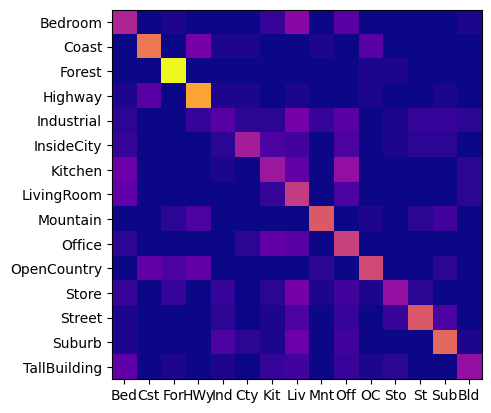
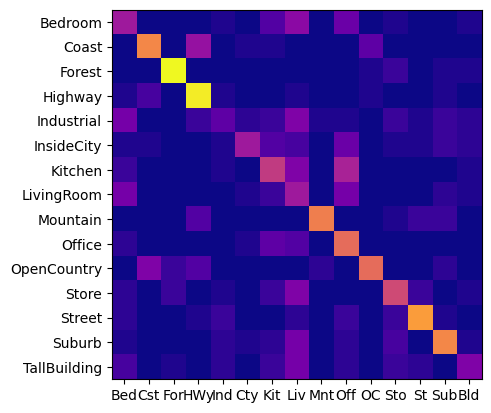
miguel_subo

diff --git a/P3/P3_bow_code/p3_results_webpage/HOG_BOW_KNN/index.html b/P3/P3_bow_code/p3_results_webpage/HOG_BOW_KNN/index.html
@@ -36,7 +36,7 @@ h1 {
 <img src="confusion_matrix.png">
 
 <br>
-Accuracy (mean of diagonal of confusion matrix) is 0.488
+Accuracy (mean of diagonal of confusion matrix) is 0.498
 <p>
 
 <table border=0 cellpadding=4 cellspacing=1>
@@ -50,183 +50,183 @@ Accuracy (mean of diagonal of confusion matrix) is 0.488
 </tr>
 <tr>
 <td>Bedroom</td>
-<td>0.375</td>
-<td bgcolor=LightBlue><img src="thumbnails/Bedroom_image_0162.jpg" width=75 height=50></td>
-<td bgcolor=LightBlue><img src="thumbnails/Bedroom_image_0192.jpg" width=75 height=62></td>
-<td bgcolor=LightGreen><img src="thumbnails/Bedroom_image_0141.jpg" width=75 height=56></td>
-<td bgcolor=LightGreen><img src="thumbnails/Bedroom_image_0069.jpg" width=75 height=56></td>
-<td bgcolor=LightCoral><img src="thumbnails/Bedroom_image_0168.jpg" width=75 height=53><br><small>Store</small></td>
-<td bgcolor=LightCoral><img src="thumbnails/Bedroom_image_0227.jpg" width=75 height=50><br><small>Industrial</small></td>
-<td bgcolor=#FFBB55><img src="thumbnails/Bedroom_image_0100.jpg" width=75 height=50><br><small>TallBuilding</small></td>
-<td bgcolor=#FFBB55><img src="thumbnails/Bedroom_image_0136.jpg" width=75 height=60><br><small>LivingRoom</small></td>
+<td>0.300</td>
+<td bgcolor=LightBlue><img src="thumbnails/Bedroom_image_0147.jpg" width=75 height=56></td>
+<td bgcolor=LightBlue><img src="thumbnails/Bedroom_image_0130.jpg" width=75 height=43></td>
+<td bgcolor=LightGreen><img src="thumbnails/Bedroom_image_0009.jpg" width=75 height=56></td>
+<td bgcolor=LightGreen><img src="thumbnails/Bedroom_image_0200.jpg" width=75 height=62></td>
+<td bgcolor=LightCoral><img src="thumbnails/Bedroom_image_0179.jpg" width=75 height=57><br><small>Industrial</small></td>
+<td bgcolor=LightCoral><img src="thumbnails/Bedroom_image_0186.jpg" width=75 height=50><br><small>LivingRoom</small></td>
+<td bgcolor=#FFBB55><img src="thumbnails/Bedroom_image_0174.jpg" width=75 height=56><br><small>Kitchen</small></td>
+<td bgcolor=#FFBB55><img src="thumbnails/Bedroom_image_0136.jpg" width=75 height=60><br><small>Office</small></td>
 </tr>
 <tr>
 <td>Coast</td>
-<td>0.650</td>
-<td bgcolor=LightBlue><img src="thumbnails/Coast_image_0356.jpg" width=75 height=75></td>
-<td bgcolor=LightBlue><img src="thumbnails/Coast_image_0297.jpg" width=75 height=75></td>
-<td bgcolor=LightGreen><img src="thumbnails/Coast_image_0058.jpg" width=75 height=75></td>
-<td bgcolor=LightGreen><img src="thumbnails/Coast_image_0187.jpg" width=75 height=75></td>
-<td bgcolor=LightCoral><img src="thumbnails/Coast_image_0218.jpg" width=75 height=75><br><small>OpenCountry</small></td>
-<td bgcolor=LightCoral><img src="thumbnails/Coast_image_0133.jpg" width=75 height=75><br><small>Highway</small></td>
-<td bgcolor=#FFBB55><img src="thumbnails/Coast_image_0342.jpg" width=75 height=75><br><small>Highway</small></td>
-<td bgcolor=#FFBB55><img src="thumbnails/Coast_image_0174.jpg" width=75 height=75><br><small>OpenCountry</small></td>
+<td>0.625</td>
+<td bgcolor=LightBlue><img src="thumbnails/Coast_image_0222.jpg" width=75 height=75></td>
+<td bgcolor=LightBlue><img src="thumbnails/Coast_image_0251.jpg" width=75 height=75></td>
+<td bgcolor=LightGreen><img src="thumbnails/Coast_image_0218.jpg" width=75 height=75></td>
+<td bgcolor=LightGreen><img src="thumbnails/Coast_image_0109.jpg" width=75 height=75></td>
+<td bgcolor=LightCoral><img src="thumbnails/Coast_image_0186.jpg" width=75 height=75><br><small>InsideCity</small></td>
+<td bgcolor=LightCoral><img src="thumbnails/Coast_image_0093.jpg" width=75 height=75><br><small>Highway</small></td>
+<td bgcolor=#FFBB55><img src="thumbnails/Coast_image_0340.jpg" width=75 height=75><br><small>Highway</small></td>
+<td bgcolor=#FFBB55><img src="thumbnails/Coast_image_0276.jpg" width=75 height=75><br><small>OpenCountry</small></td>
 </tr>
 <tr>
 <td>Forest</td>
-<td>0.975</td>
-<td bgcolor=LightBlue><img src="thumbnails/Forest_image_0109.jpg" width=75 height=75></td>
-<td bgcolor=LightBlue><img src="thumbnails/Forest_image_0088.jpg" width=75 height=75></td>
-<td bgcolor=LightGreen><img src="thumbnails/Forest_image_0024.jpg" width=75 height=75></td>
-<td bgcolor=LightGreen><img src="thumbnails/Forest_image_0318.jpg" width=75 height=75></td>
-<td bgcolor=LightCoral><img src="thumbnails/Forest_image_0241.jpg" width=75 height=75><br><small>Mountain</small></td>
+<td>0.875</td>
+<td bgcolor=LightBlue><img src="thumbnails/Forest_image_0306.jpg" width=75 height=75></td>
+<td bgcolor=LightBlue><img src="thumbnails/Forest_image_0142.jpg" width=75 height=75></td>
+<td bgcolor=LightGreen><img src="thumbnails/Forest_image_0148.jpg" width=75 height=75></td>
+<td bgcolor=LightGreen><img src="thumbnails/Forest_image_0324.jpg" width=75 height=75></td>
+<td bgcolor=LightCoral><img src="thumbnails/Forest_image_0169.jpg" width=75 height=100><br><small>Store</small></td>
 <td bgcolor=LightCoral><img src="thumbnails/Forest_image_0321.jpg" width=75 height=75><br><small>TallBuilding</small></td>
+<td bgcolor=#FFBB55><img src="thumbnails/Forest_image_0146.jpg" width=75 height=75><br><small>Store</small></td>
 <td bgcolor=#FFBB55><img src="thumbnails/Forest_image_0298.jpg" width=75 height=75><br><small>Store</small></td>
-<td bgcolor=#FFBB55><img src="thumbnails/Forest_image_0031.jpg" width=75 height=75><br><small>OpenCountry</small></td>
 </tr>
 <tr>
 <td>Highway</td>
-<td>0.775</td>
-<td bgcolor=LightBlue><img src="thumbnails/Highway_image_0029.jpg" width=75 height=75></td>
-<td bgcolor=LightBlue><img src="thumbnails/Highway_image_0176.jpg" width=75 height=75></td>
-<td bgcolor=LightGreen><img src="thumbnails/Highway_image_0007.jpg" width=75 height=75></td>
-<td bgcolor=LightGreen><img src="thumbnails/Highway_image_0171.jpg" width=75 height=75></td>
-<td bgcolor=LightCoral><img src="thumbnails/Highway_image_0341.jpg" width=75 height=75><br><small>Coast</small></td>
-<td bgcolor=LightCoral><img src="thumbnails/Highway_image_0164.jpg" width=75 height=75><br><small>Mountain</small></td>
-<td bgcolor=#FFBB55><img src="thumbnails/Highway_image_0175.jpg" width=75 height=75><br><small>InsideCity</small></td>
-<td bgcolor=#FFBB55><img src="thumbnails/Highway_image_0006.jpg" width=75 height=75><br><small>Coast</small></td>
+<td>0.850</td>
+<td bgcolor=LightBlue><img src="thumbnails/Highway_image_0134.jpg" width=75 height=75></td>
+<td bgcolor=LightBlue><img src="thumbnails/Highway_image_0111.jpg" width=75 height=75></td>
+<td bgcolor=LightGreen><img src="thumbnails/Highway_image_0200.jpg" width=75 height=75></td>
+<td bgcolor=LightGreen><img src="thumbnails/Highway_image_0130.jpg" width=75 height=75></td>
+<td bgcolor=LightCoral><img src="thumbnails/Highway_image_0042.jpg" width=75 height=75><br><small>Coast</small></td>
+<td bgcolor=LightCoral><img src="thumbnails/Highway_image_0004.jpg" width=75 height=48><br><small>Industrial</small></td>
+<td bgcolor=#FFBB55><img src="thumbnails/Highway_image_0093.jpg" width=75 height=75><br><small>Coast</small></td>
+<td bgcolor=#FFBB55><img src="thumbnails/Highway_image_0019.jpg" width=75 height=75><br><small>Suburb</small></td>
 </tr>
 <tr>
 <td>Industrial</td>
 <td>0.150</td>
-<td bgcolor=LightBlue><img src="thumbnails/Industrial_image_0145.jpg" width=75 height=58></td>
-<td bgcolor=LightBlue><img src="thumbnails/Industrial_image_0162.jpg" width=75 height=65></td>
-<td bgcolor=LightGreen><img src="thumbnails/Industrial_image_0112.jpg" width=75 height=56></td>
-<td bgcolor=LightGreen><img src="thumbnails/Industrial_image_0264.jpg" width=75 height=46></td>
-<td bgcolor=LightCoral><img src="thumbnails/Industrial_image_0109.jpg" width=75 height=50><br><small>Suburb</small></td>
-<td bgcolor=LightCoral><img src="thumbnails/Industrial_image_0246.jpg" width=75 height=56><br><small>Store</small></td>
-<td bgcolor=#FFBB55><img src="thumbnails/Industrial_image_0013.jpg" width=75 height=54><br><small>Mountain</small></td>
-<td bgcolor=#FFBB55><img src="thumbnails/Industrial_image_0025.jpg" width=75 height=48><br><small>Office</small></td>
+<td bgcolor=LightBlue><img src="thumbnails/Industrial_image_0193.jpg" width=75 height=49></td>
+<td bgcolor=LightBlue><img src="thumbnails/Industrial_image_0192.jpg" width=75 height=101></td>
+<td bgcolor=LightGreen><img src="thumbnails/Industrial_image_0211.jpg" width=75 height=67></td>
+<td bgcolor=LightGreen><img src="thumbnails/Industrial_image_0109.jpg" width=75 height=56></td>
+<td bgcolor=LightCoral><img src="thumbnails/Industrial_image_0074.jpg" width=75 height=75><br><small>Street</small></td>
+<td bgcolor=LightCoral><img src="thumbnails/Industrial_image_0064.jpg" width=75 height=75><br><small>InsideCity</small></td>
+<td bgcolor=#FFBB55><img src="thumbnails/Industrial_image_0175.jpg" width=75 height=52><br><small>LivingRoom</small></td>
+<td bgcolor=#FFBB55><img src="thumbnails/Industrial_image_0172.jpg" width=75 height=60><br><small>LivingRoom</small></td>
 </tr>
 <tr>
 <td>InsideCity</td>
-<td>0.350</td>
-<td bgcolor=LightBlue><img src="thumbnails/InsideCity_image_0107.jpg" width=75 height=75></td>
-<td bgcolor=LightBlue><img src="thumbnails/InsideCity_image_0178.jpg" width=75 height=75></td>
-<td bgcolor=LightGreen><img src="thumbnails/InsideCity_image_0222.jpg" width=75 height=75></td>
-<td bgcolor=LightGreen><img src="thumbnails/InsideCity_image_0206.jpg" width=75 height=75></td>
-<td bgcolor=LightCoral><img src="thumbnails/InsideCity_image_0175.jpg" width=75 height=75><br><small>Highway</small></td>
+<td>0.300</td>
+<td bgcolor=LightBlue><img src="thumbnails/InsideCity_image_0030.jpg" width=75 height=75></td>
+<td bgcolor=LightBlue><img src="thumbnails/InsideCity_image_0192.jpg" width=75 height=75></td>
+<td bgcolor=LightGreen><img src="thumbnails/InsideCity_image_0227.jpg" width=75 height=75></td>
+<td bgcolor=LightGreen><img src="thumbnails/InsideCity_image_0078.jpg" width=75 height=75></td>
 <td bgcolor=LightCoral><img src="thumbnails/InsideCity_image_0214.jpg" width=75 height=75><br><small>Coast</small></td>
-<td bgcolor=#FFBB55><img src="thumbnails/InsideCity_image_0006.jpg" width=75 height=75><br><small>Kitchen</small></td>
-<td bgcolor=#FFBB55><img src="thumbnails/InsideCity_image_0033.jpg" width=75 height=75><br><small>Store</small></td>
+<td bgcolor=LightCoral><img src="thumbnails/InsideCity_image_0189.jpg" width=75 height=60><br><small>Office</small></td>
+<td bgcolor=#FFBB55><img src="thumbnails/InsideCity_image_0141.jpg" width=75 height=75><br><small>Suburb</small></td>
+<td bgcolor=#FFBB55><img src="thumbnails/InsideCity_image_0276.jpg" width=75 height=75><br><small>Bedroom</small></td>
 </tr>
 <tr>
 <td>Kitchen</td>
-<td>0.325</td>
-<td bgcolor=LightBlue><img src="thumbnails/Kitchen_image_0205.jpg" width=75 height=60></td>
-<td bgcolor=LightBlue><img src="thumbnails/Kitchen_image_0210.jpg" width=75 height=56></td>
-<td bgcolor=LightGreen><img src="thumbnails/Kitchen_image_0054.jpg" width=75 height=57></td>
-<td bgcolor=LightGreen><img src="thumbnails/Kitchen_image_0057.jpg" width=75 height=54></td>
-<td bgcolor=LightCoral><img src="thumbnails/Kitchen_image_0295.jpg" width=75 height=75><br><small>TallBuilding</small></td>
-<td bgcolor=LightCoral><img src="thumbnails/Kitchen_image_0152.jpg" width=75 height=75><br><small>InsideCity</small></td>
-<td bgcolor=#FFBB55><img src="thumbnails/Kitchen_image_0137.jpg" width=75 height=56><br><small>LivingRoom</small></td>
-<td bgcolor=#FFBB55><img src="thumbnails/Kitchen_image_0125.jpg" width=75 height=49><br><small>Bedroom</small></td>
+<td>0.400</td>
+<td bgcolor=LightBlue><img src="thumbnails/Kitchen_image_0167.jpg" width=75 height=100></td>
+<td bgcolor=LightBlue><img src="thumbnails/Kitchen_image_0055.jpg" width=75 height=50></td>
+<td bgcolor=LightGreen><img src="thumbnails/Kitchen_image_0070.jpg" width=75 height=50></td>
+<td bgcolor=LightGreen><img src="thumbnails/Kitchen_image_0147.jpg" width=75 height=72></td>
+<td bgcolor=LightCoral><img src="thumbnails/Kitchen_image_0071.jpg" width=75 height=75><br><small>InsideCity</small></td>
+<td bgcolor=LightCoral><img src="thumbnails/Kitchen_image_0203.jpg" width=75 height=63><br><small>Office</small></td>
+<td bgcolor=#FFBB55><img src="thumbnails/Kitchen_image_0094.jpg" width=75 height=64><br><small>LivingRoom</small></td>
+<td bgcolor=#FFBB55><img src="thumbnails/Kitchen_image_0085.jpg" width=75 height=56><br><small>Industrial</small></td>
 </tr>
 <tr>
 <td>LivingRoom</td>
-<td>0.450</td>
-<td bgcolor=LightBlue><img src="thumbnails/LivingRoom_image_0240.jpg" width=75 height=56></td>
-<td bgcolor=LightBlue><img src="thumbnails/LivingRoom_image_0174.jpg" width=75 height=109></td>
-<td bgcolor=LightGreen><img src="thumbnails/LivingRoom_image_0038.jpg" width=75 height=57></td>
-<td bgcolor=LightGreen><img src="thumbnails/LivingRoom_image_0272.jpg" width=75 height=56></td>
-<td bgcolor=LightCoral><img src="thumbnails/LivingRoom_image_0079.jpg" width=75 height=56><br><small>Kitchen</small></td>
-<td bgcolor=LightCoral><img src="thumbnails/LivingRoom_image_0009.jpg" width=75 height=50><br><small>Suburb</small></td>
-<td bgcolor=#FFBB55><img src="thumbnails/LivingRoom_image_0282.jpg" width=75 height=50><br><small>Bedroom</small></td>
-<td bgcolor=#FFBB55><img src="thumbnails/LivingRoom_image_0187.jpg" width=75 height=50><br><small>Office</small></td>
+<td>0.300</td>
+<td bgcolor=LightBlue><img src="thumbnails/LivingRoom_image_0185.jpg" width=75 height=61></td>
+<td bgcolor=LightBlue><img src="thumbnails/LivingRoom_image_0190.jpg" width=75 height=51></td>
+<td bgcolor=LightGreen><img src="thumbnails/LivingRoom_image_0148.jpg" width=75 height=75></td>
+<td bgcolor=LightGreen><img src="thumbnails/LivingRoom_image_0123.jpg" width=75 height=57></td>
+<td bgcolor=LightCoral><img src="thumbnails/LivingRoom_image_0104.jpg" width=75 height=50><br><small>Industrial</small></td>
+<td bgcolor=LightCoral><img src="thumbnails/LivingRoom_image_0029.jpg" width=75 height=100><br><small>Kitchen</small></td>
+<td bgcolor=#FFBB55><img src="thumbnails/LivingRoom_image_0125.jpg" width=75 height=56><br><small>Kitchen</small></td>
+<td bgcolor=#FFBB55><img src="thumbnails/LivingRoom_image_0010.jpg" width=75 height=56><br><small>Kitchen</small></td>
 </tr>
 <tr>
 <td>Mountain</td>
-<td>0.550</td>
-<td bgcolor=LightBlue><img src="thumbnails/Mountain_image_0070.jpg" width=75 height=75></td>
-<td bgcolor=LightBlue><img src="thumbnails/Mountain_image_0126.jpg" width=75 height=75></td>
-<td bgcolor=LightGreen><img src="thumbnails/Mountain_image_0256.jpg" width=75 height=75></td>
-<td bgcolor=LightGreen><img src="thumbnails/Mountain_image_0023.jpg" width=75 height=75></td>
-<td bgcolor=LightCoral><img src="thumbnails/Mountain_image_0312.jpg" width=75 height=75><br><small>Coast</small></td>
-<td bgcolor=LightCoral><img src="thumbnails/Mountain_image_0154.jpg" width=75 height=57><br><small>Store</small></td>
+<td>0.600</td>
+<td bgcolor=LightBlue><img src="thumbnails/Mountain_image_0042.jpg" width=75 height=75></td>
+<td bgcolor=LightBlue><img src="thumbnails/Mountain_image_0167.jpg" width=75 height=75></td>
+<td bgcolor=LightGreen><img src="thumbnails/Mountain_image_0160.jpg" width=75 height=75></td>
+<td bgcolor=LightGreen><img src="thumbnails/Mountain_image_0089.jpg" width=75 height=75></td>
+<td bgcolor=LightCoral><img src="thumbnails/Mountain_image_0306.jpg" width=75 height=75><br><small>OpenCountry</small></td>
+<td bgcolor=LightCoral><img src="thumbnails/Mountain_image_0372.jpg" width=75 height=75><br><small>OpenCountry</small></td>
 <td bgcolor=#FFBB55><img src="thumbnails/Mountain_image_0164.jpg" width=75 height=75><br><small>Highway</small></td>
-<td bgcolor=#FFBB55><img src="thumbnails/Mountain_image_0062.jpg" width=75 height=75><br><small>Street</small></td>
+<td bgcolor=#FFBB55><img src="thumbnails/Mountain_image_0361.jpg" width=75 height=75><br><small>Suburb</small></td>
 </tr>
 <tr>
 <td>Office</td>
-<td>0.475</td>
-<td bgcolor=LightBlue><img src="thumbnails/Office_image_0193.jpg" width=75 height=56></td>
-<td bgcolor=LightBlue><img src="thumbnails/Office_image_0133.jpg" width=75 height=47></td>
-<td bgcolor=LightGreen><img src="thumbnails/Office_image_0051.jpg" width=75 height=51></td>
-<td bgcolor=LightGreen><img src="thumbnails/Office_image_0087.jpg" width=75 height=67></td>
-<td bgcolor=LightCoral><img src="thumbnails/Office_image_0181.jpg" width=75 height=57><br><small>Bedroom</small></td>
-<td bgcolor=LightCoral><img src="thumbnails/Office_image_0084.jpg" width=75 height=61><br><small>Store</small></td>
-<td bgcolor=#FFBB55><img src="thumbnails/Office_image_0082.jpg" width=75 height=49><br><small>LivingRoom</small></td>
-<td bgcolor=#FFBB55><img src="thumbnails/Office_image_0128.jpg" width=75 height=49><br><small>LivingRoom</small></td>
+<td>0.550</td>
+<td bgcolor=LightBlue><img src="thumbnails/Office_image_0191.jpg" width=75 height=49></td>
+<td bgcolor=LightBlue><img src="thumbnails/Office_image_0094.jpg" width=75 height=54></td>
+<td bgcolor=LightGreen><img src="thumbnails/Office_image_0001.jpg" width=75 height=56></td>
+<td bgcolor=LightGreen><img src="thumbnails/Office_image_0028.jpg" width=75 height=56></td>
+<td bgcolor=LightCoral><img src="thumbnails/Office_image_0080.jpg" width=75 height=56><br><small>Bedroom</small></td>
+<td bgcolor=LightCoral><img src="thumbnails/Office_image_0056.jpg" width=75 height=75><br><small>Street</small></td>
+<td bgcolor=#FFBB55><img src="thumbnails/Office_image_0056.jpg" width=75 height=43><br><small>LivingRoom</small></td>
+<td bgcolor=#FFBB55><img src="thumbnails/Office_image_0128.jpg" width=75 height=49><br><small>Bedroom</small></td>
 </tr>
 <tr>
 <td>OpenCountry</td>
-<td>0.500</td>
-<td bgcolor=LightBlue><img src="thumbnails/OpenCountry_image_0407.jpg" width=75 height=75></td>
-<td bgcolor=LightBlue><img src="thumbnails/OpenCountry_image_0352.jpg" width=75 height=75></td>
-<td bgcolor=LightGreen><img src="thumbnails/OpenCountry_image_0295.jpg" width=75 height=75></td>
-<td bgcolor=LightGreen><img src="thumbnails/OpenCountry_image_0098.jpg" width=75 height=75></td>
-<td bgcolor=LightCoral><img src="thumbnails/OpenCountry_image_0159.jpg" width=75 height=75><br><small>Mountain</small></td>
-<td bgcolor=LightCoral><img src="thumbnails/OpenCountry_image_0184.jpg" width=75 height=75><br><small>Highway</small></td>
-<td bgcolor=#FFBB55><img src="thumbnails/OpenCountry_image_0336.jpg" width=75 height=75><br><small>Suburb</small></td>
+<td>0.550</td>
+<td bgcolor=LightBlue><img src="thumbnails/OpenCountry_image_0072.jpg" width=75 height=75></td>
+<td bgcolor=LightBlue><img src="thumbnails/OpenCountry_image_0178.jpg" width=75 height=75></td>
+<td bgcolor=LightGreen><img src="thumbnails/OpenCountry_image_0020.jpg" width=75 height=75></td>
+<td bgcolor=LightGreen><img src="thumbnails/OpenCountry_image_0346.jpg" width=75 height=75></td>
+<td bgcolor=LightCoral><img src="thumbnails/OpenCountry_image_0260.jpg" width=75 height=75><br><small>Coast</small></td>
+<td bgcolor=LightCoral><img src="thumbnails/OpenCountry_image_0116.jpg" width=75 height=75><br><small>Coast</small></td>
+<td bgcolor=#FFBB55><img src="thumbnails/OpenCountry_image_0306.jpg" width=75 height=75><br><small>Mountain</small></td>
 <td bgcolor=#FFBB55><img src="thumbnails/OpenCountry_image_0008.jpg" width=75 height=75><br><small>Coast</small></td>
 </tr>
 <tr>
 <td>Store</td>
-<td>0.300</td>
-<td bgcolor=LightBlue><img src="thumbnails/Store_image_0236.jpg" width=75 height=50></td>
-<td bgcolor=LightBlue><img src="thumbnails/Store_image_0256.jpg" width=75 height=57></td>
-<td bgcolor=LightGreen><img src="thumbnails/Store_image_0111.jpg" width=75 height=56></td>
-<td bgcolor=LightGreen><img src="thumbnails/Store_image_0204.jpg" width=75 height=112></td>
-<td bgcolor=LightCoral><img src="thumbnails/Store_image_0072.jpg" width=75 height=75><br><small>Street</small></td>
-<td bgcolor=LightCoral><img src="thumbnails/Store_image_0156.jpg" width=75 height=56><br><small>Industrial</small></td>
-<td bgcolor=#FFBB55><img src="thumbnails/Store_image_0122.jpg" width=75 height=77><br><small>Forest</small></td>
+<td>0.450</td>
+<td bgcolor=LightBlue><img src="thumbnails/Store_image_0130.jpg" width=75 height=55></td>
+<td bgcolor=LightBlue><img src="thumbnails/Store_image_0044.jpg" width=75 height=75></td>
+<td bgcolor=LightGreen><img src="thumbnails/Store_image_0238.jpg" width=75 height=76></td>
+<td bgcolor=LightGreen><img src="thumbnails/Store_image_0049.jpg" width=75 height=56></td>
+<td bgcolor=LightCoral><img src="thumbnails/Store_image_0123.jpg" width=75 height=75><br><small>TallBuilding</small></td>
+<td bgcolor=LightCoral><img src="thumbnails/Store_image_0033.jpg" width=75 height=75><br><small>InsideCity</small></td>
 <td bgcolor=#FFBB55><img src="thumbnails/Store_image_0188.jpg" width=75 height=55><br><small>Street</small></td>
+<td bgcolor=#FFBB55><img src="thumbnails/Store_image_0025.jpg" width=75 height=50><br><small>Bedroom</small></td>
 </tr>
 <tr>
 <td>Street</td>
-<td>0.550</td>
-<td bgcolor=LightBlue><img src="thumbnails/Street_image_0163.jpg" width=75 height=75></td>
-<td bgcolor=LightBlue><img src="thumbnails/Street_image_0010.jpg" width=75 height=75></td>
-<td bgcolor=LightGreen><img src="thumbnails/Street_image_0124.jpg" width=75 height=75></td>
-<td bgcolor=LightGreen><img src="thumbnails/Street_image_0062.jpg" width=75 height=75></td>
-<td bgcolor=LightCoral><img src="thumbnails/Street_image_0146.jpg" width=75 height=56><br><small>Store</small></td>
-<td bgcolor=LightCoral><img src="thumbnails/Street_image_0062.jpg" width=75 height=75><br><small>Mountain</small></td>
-<td bgcolor=#FFBB55><img src="thumbnails/Street_image_0074.jpg" width=75 height=75><br><small>Store</small></td>
-<td bgcolor=#FFBB55><img src="thumbnails/Street_image_0070.jpg" width=75 height=75><br><small>LivingRoom</small></td>
+<td>0.675</td>
+<td bgcolor=LightBlue><img src="thumbnails/Street_image_0067.jpg" width=75 height=75></td>
+<td bgcolor=LightBlue><img src="thumbnails/Street_image_0033.jpg" width=75 height=75></td>
+<td bgcolor=LightGreen><img src="thumbnails/Street_image_0153.jpg" width=75 height=75></td>
+<td bgcolor=LightGreen><img src="thumbnails/Street_image_0220.jpg" width=75 height=75></td>
+<td bgcolor=LightCoral><img src="thumbnails/Street_image_0221.jpg" width=75 height=75><br><small>Mountain</small></td>
+<td bgcolor=LightCoral><img src="thumbnails/Street_image_0156.jpg" width=75 height=75><br><small>InsideCity</small></td>
+<td bgcolor=#FFBB55><img src="thumbnails/Street_image_0248.jpg" width=75 height=75><br><small>LivingRoom</small></td>
+<td bgcolor=#FFBB55><img src="thumbnails/Street_image_0268.jpg" width=75 height=75><br><small>Store</small></td>
 </tr>
 <tr>
 <td>Suburb</td>
-<td>0.600</td>
-<td bgcolor=LightBlue><img src="thumbnails/Suburb_image_0130.jpg" width=75 height=50></td>
-<td bgcolor=LightBlue><img src="thumbnails/Suburb_image_0132.jpg" width=75 height=50></td>
-<td bgcolor=LightGreen><img src="thumbnails/Suburb_image_0014.jpg" width=75 height=50></td>
-<td bgcolor=LightGreen><img src="thumbnails/Suburb_image_0175.jpg" width=75 height=50></td>
-<td bgcolor=LightCoral><img src="thumbnails/Suburb_image_0212.jpg" width=75 height=75><br><small>Street</small></td>
-<td bgcolor=LightCoral><img src="thumbnails/Suburb_image_0248.jpg" width=75 height=75><br><small>Street</small></td>
-<td bgcolor=#FFBB55><img src="thumbnails/Suburb_image_0003.jpg" width=75 height=50><br><small>Office</small></td>
-<td bgcolor=#FFBB55><img src="thumbnails/Suburb_image_0239.jpg" width=75 height=50><br><small>TallBuilding</small></td>
+<td>0.625</td>
+<td bgcolor=LightBlue><img src="thumbnails/Suburb_image_0142.jpg" width=75 height=50></td>
+<td bgcolor=LightBlue><img src="thumbnails/Suburb_image_0074.jpg" width=75 height=50></td>
+<td bgcolor=LightGreen><img src="thumbnails/Suburb_image_0097.jpg" width=75 height=50></td>
+<td bgcolor=LightGreen><img src="thumbnails/Suburb_image_0122.jpg" width=75 height=50></td>
+<td bgcolor=LightCoral><img src="thumbnails/Suburb_image_0336.jpg" width=75 height=75><br><small>OpenCountry</small></td>
+<td bgcolor=LightCoral><img src="thumbnails/Suburb_image_0049.jpg" width=75 height=75><br><small>Street</small></td>
+<td bgcolor=#FFBB55><img src="thumbnails/Suburb_image_0003.jpg" width=75 height=50><br><small>Kitchen</small></td>
+<td bgcolor=#FFBB55><img src="thumbnails/Suburb_image_0154.jpg" width=75 height=50><br><small>Kitchen</small></td>
 </tr>
 <tr>
 <td>TallBuilding</td>
-<td>0.300</td>
-<td bgcolor=LightBlue><img src="thumbnails/TallBuilding_image_0241.jpg" width=75 height=75></td>
-<td bgcolor=LightBlue><img src="thumbnails/TallBuilding_image_0165.jpg" width=75 height=75></td>
-<td bgcolor=LightGreen><img src="thumbnails/TallBuilding_image_0037.jpg" width=75 height=75></td>
+<td>0.225</td>
+<td bgcolor=LightBlue><img src="thumbnails/TallBuilding_image_0265.jpg" width=75 height=75></td>
+<td bgcolor=LightBlue><img src="thumbnails/TallBuilding_image_0130.jpg" width=75 height=75></td>
 <td bgcolor=LightGreen><img src="thumbnails/TallBuilding_image_0119.jpg" width=75 height=75></td>
-<td bgcolor=LightCoral><img src="thumbnails/TallBuilding_image_0239.jpg" width=75 height=50><br><small>Suburb</small></td>
+<td bgcolor=LightGreen><img src="thumbnails/TallBuilding_image_0201.jpg" width=75 height=75></td>
 <td bgcolor=LightCoral><img src="thumbnails/TallBuilding_image_0259.jpg" width=75 height=56><br><small>Industrial</small></td>
-<td bgcolor=#FFBB55><img src="thumbnails/TallBuilding_image_0344.jpg" width=75 height=75><br><small>Store</small></td>
-<td bgcolor=#FFBB55><img src="thumbnails/TallBuilding_image_0079.jpg" width=75 height=75><br><small>Kitchen</small></td>
+<td bgcolor=LightCoral><img src="thumbnails/TallBuilding_image_0189.jpg" width=75 height=52><br><small>LivingRoom</small></td>
+<td bgcolor=#FFBB55><img src="thumbnails/TallBuilding_image_0349.jpg" width=75 height=75><br><small>LivingRoom</small></td>
+<td bgcolor=#FFBB55><img src="thumbnails/TallBuilding_image_0123.jpg" width=75 height=75><br><small>Store</small></td>
 </tr>
 <tr>
 <th>Category name</th>
